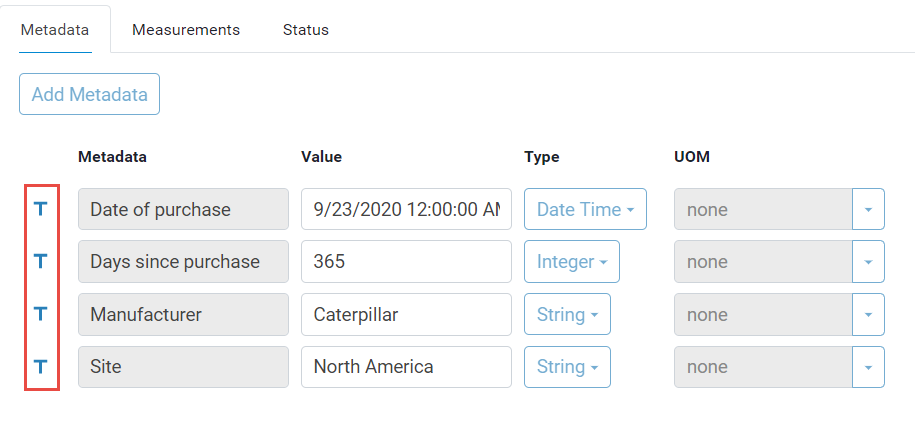
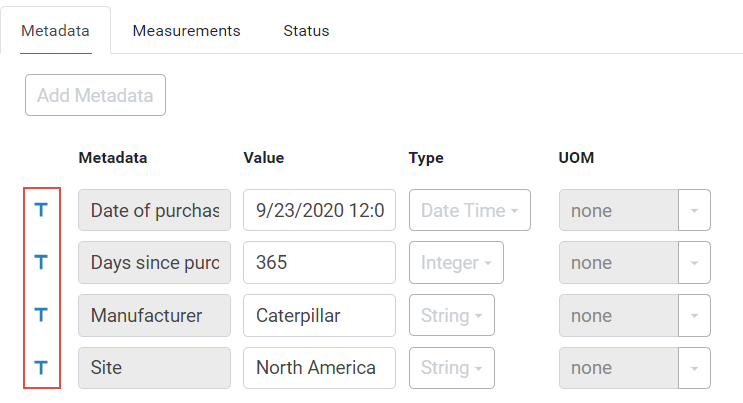
Updated screen captures to show disabled UI. Added x-ref to Asset type topic.

diff --git a/Content_Portal/Quickstarts/getting-started-rom.md b/Content_Portal/Quickstarts/getting-started-rom.md
@@ -82,7 +82,7 @@ Procedure
       |          ![](images\Multiple_mode.png)   |    All measurements are plotted on the same scale.         |
       |    ![Stacked mode](images\Stacked_mode.png)        |       All measurements are plotted on its own scale.      |
 
-9.   Click on the ![Trend views icon](images\trend-views-icon.png)icon to toggle through the views.
+9.   Click on the ![Trend views icon](images\trend-views-icon.png) icon to toggle through the views.
 
     The Legend table shows the legend for each trace, the last value, minimum, maximum, and average values in the displayed time range.
 

diff --git a/Content_Portal/How_To_Guides/Asset_Types/create-asset-type-asset-editor.md b/Content_Portal/How_To_Guides/Asset_Types/create-asset-type-asset-editor.md
@@ -4,6 +4,8 @@ uid: CreateAssetType
 
 # Create an asset type with the asset types editor
 
+For more information on asset types, see [Asset types](xref: AssetTypes).
+
 1. Click the menu icon ![menu icon](..\images\icon_navigation_bigger.png) and click **Asset Explorer**.
 
 2. To change the [namespace](xref:AccountManagementConcepts#namespace), click on the namespace to open the Select a Namespace window.

diff --git a/Content_Portal/How_To_Guides/Asset_Types/convert-asset-to-asset-type.md b/Content_Portal/How_To_Guides/Asset_Types/convert-asset-to-asset-type.md
@@ -4,6 +4,8 @@ uid: ConvertAssetToAssetType
 
 # Convert an asset to an asset type 
 
+For more information on asset types, see [Asset types](xref:AssetTypes).
+
 1. Follow the instructions in [Create and configure an asset](xref:CreateConfigureAsset), and create the asset that will be the basis for the asset type.
 
 3. Click **Save as Asset Type**.

diff --git a/Content_Portal/How_To_Guides/Assets/create-asset-from-type.md b/Content_Portal/How_To_Guides/Assets/create-asset-from-type.md
@@ -4,6 +4,8 @@ uid: CreateAssetFromAssetType
 
 # Create an asset from an asset type
 
+For more information on asset types, see [Asset types](xref:AssetTypes).
+
 1. Click the menu icon ![menu icon](..\images\icon_navigation_bigger.png) and click **Asset Explorer**.
 
 
